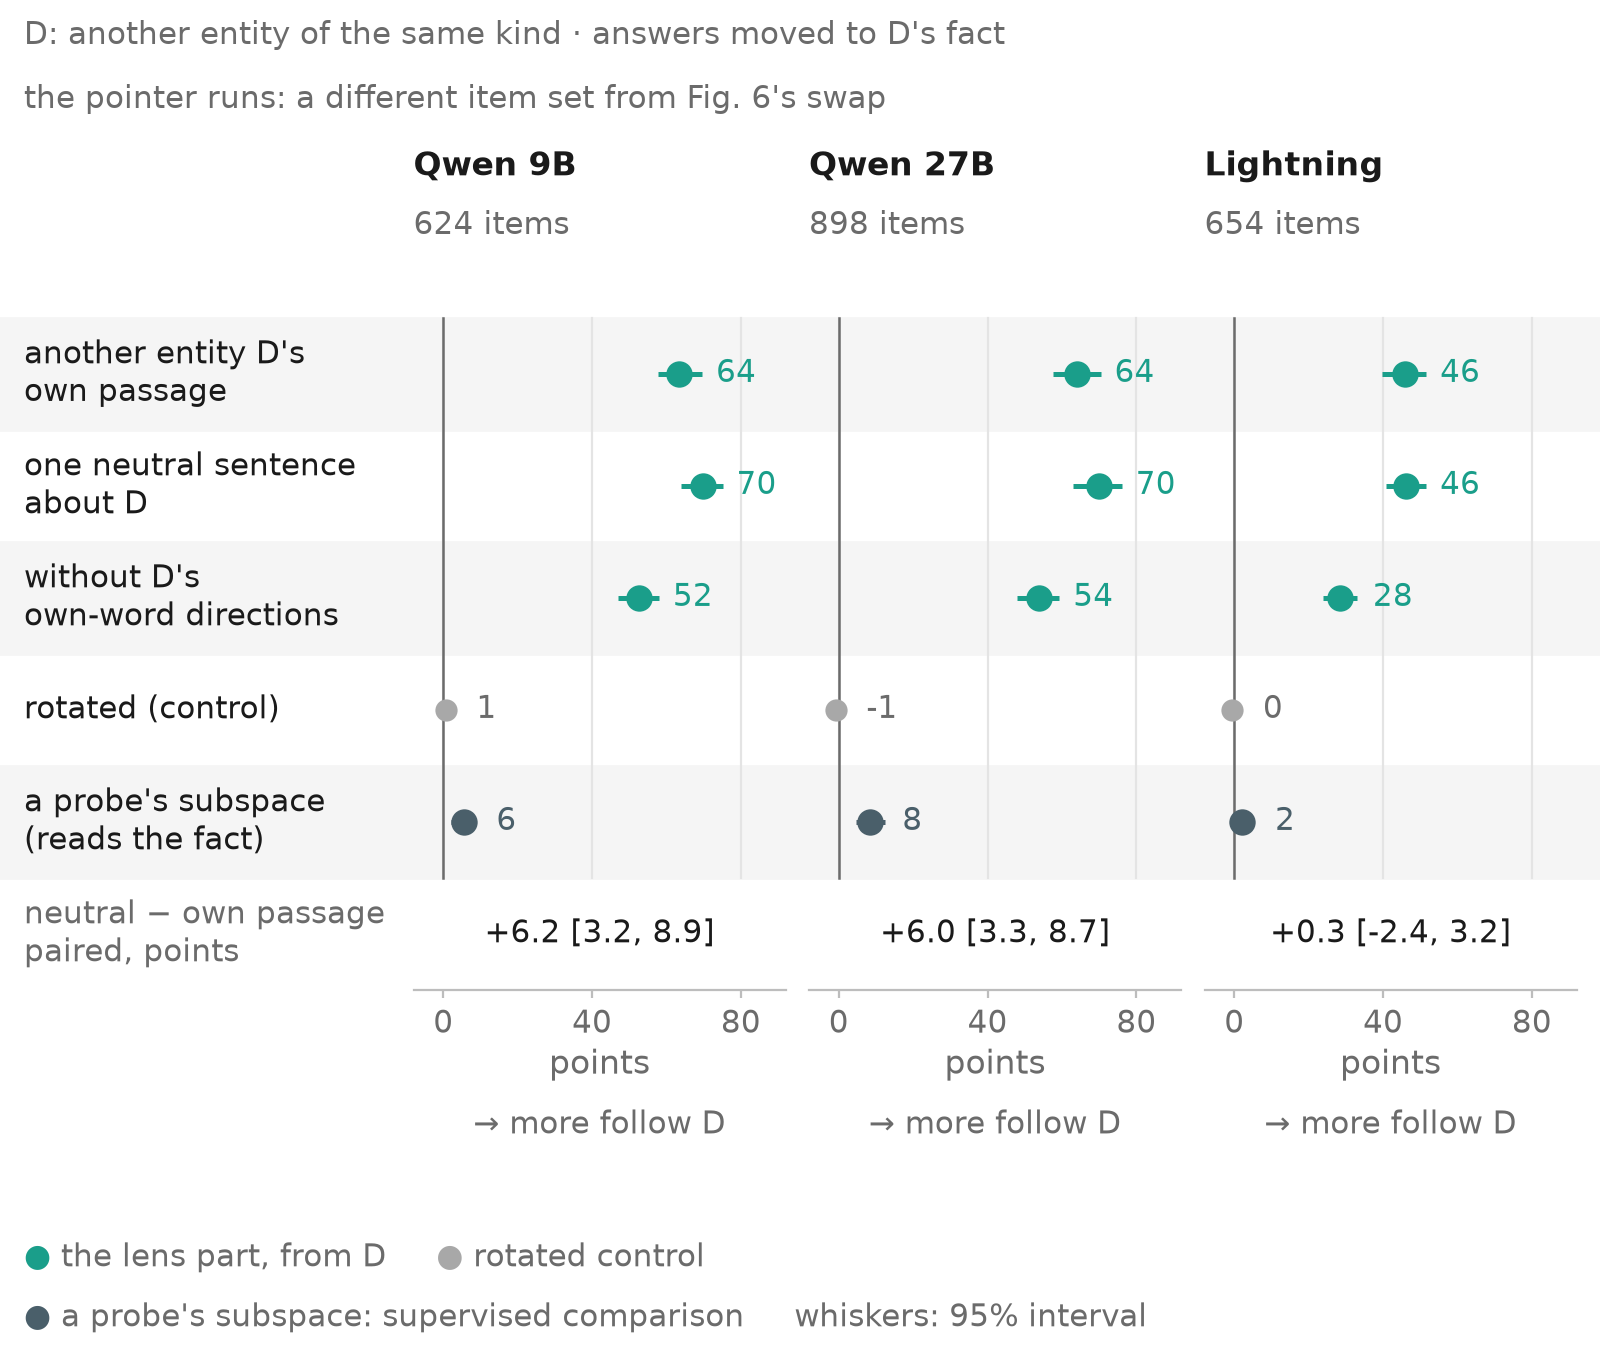
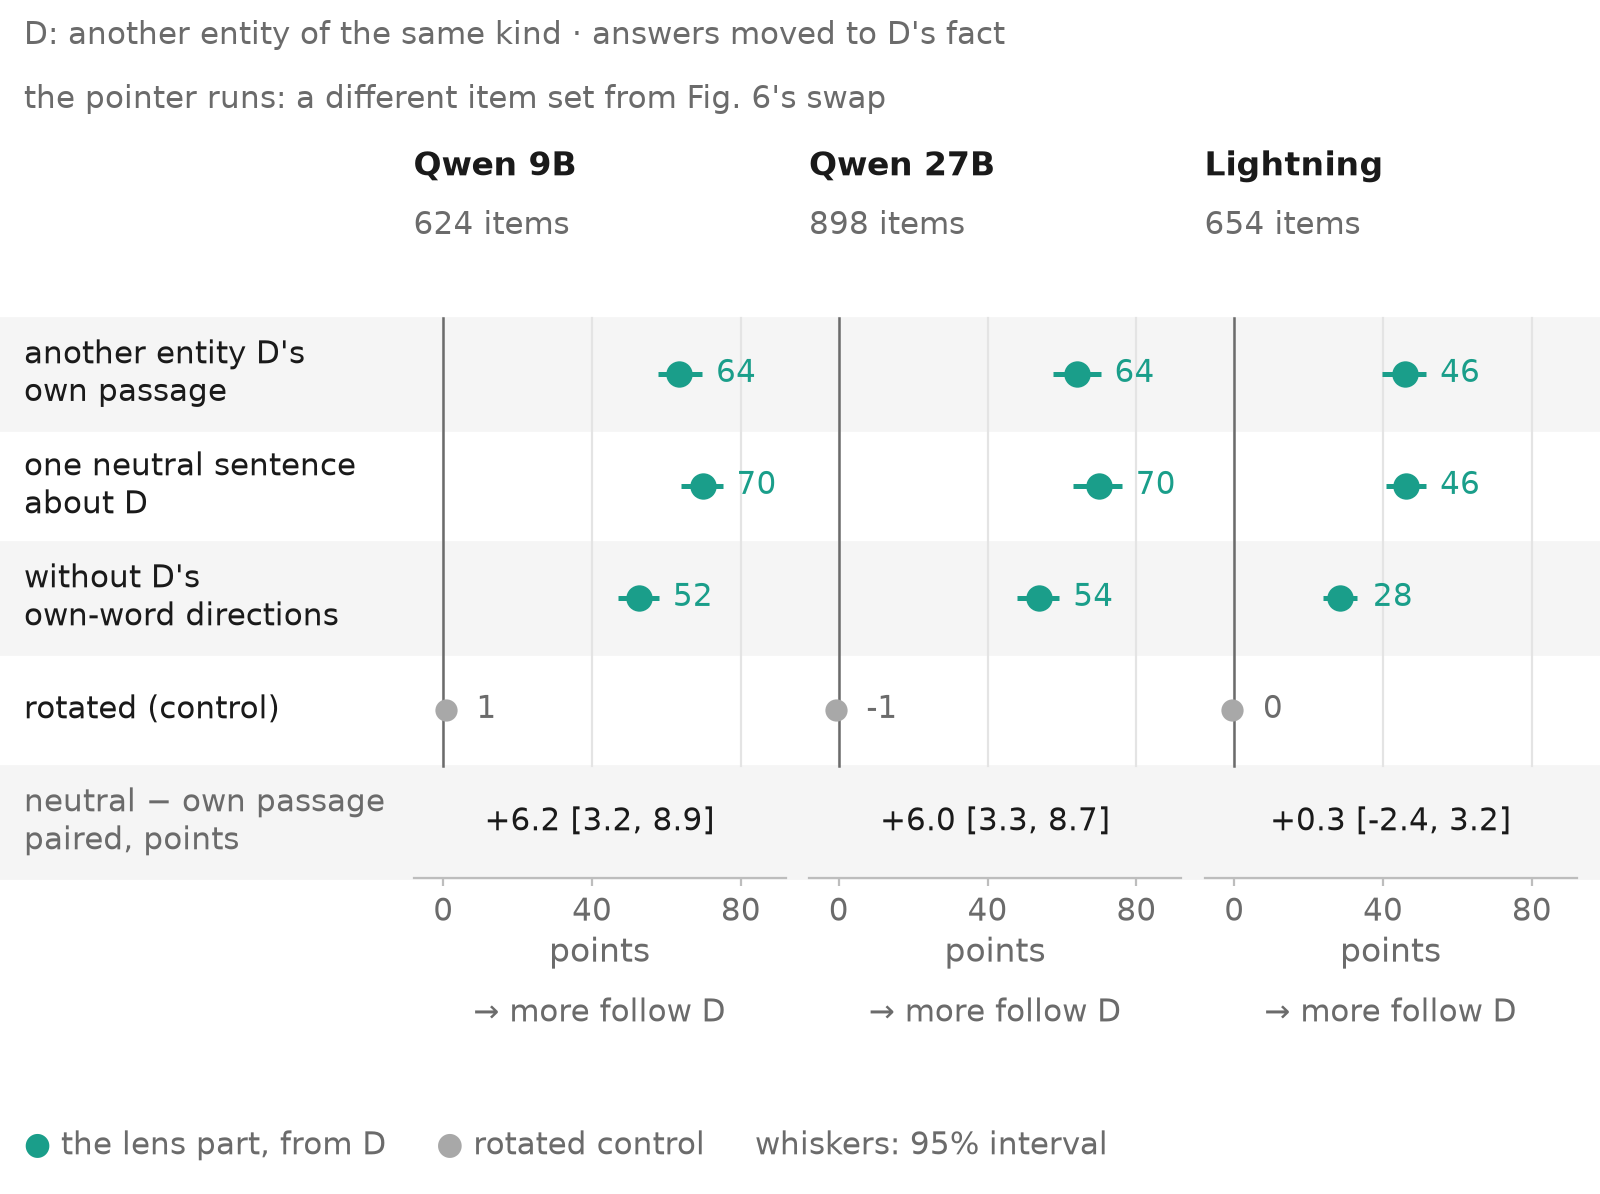
Write-up fig12: drop the probe-subspace row (another item set)
The probe's run has its own items (456 / 891 / 420), so beside the pointer
runs it invites a comparison across item sets. The post keeps that
comparison as text from one run: data.csv fig12.same_run.{lens,probe}.<m>
(probe-ceiling runs, memory_valid/swap vs swap_probe).

diff --git a/src/bridge_jspace/figkit/writeup_intro.py b/src/bridge_jspace/figkit/writeup_intro.py
@@ -167,11 +167,11 @@ def fig07_routes() -> None:
 # ---- Fig. 12: the pointer (r4_pointer) ----------------------------------------------------------------------------
 def fig12_pointer() -> None:
     """As r4: conditions as rows, models as columns, every cell in points with its 95% interval (docs/breadth/data.csv
-    ptr.*, probe.*). The paired difference "neutral sentence minus own passage" is a row of its own, in text, where no
-    line runs (r4 printed it inside the panel)."""
+    ptr.*). The paired difference "neutral sentence minus own passage" is a row of its own, in text, where no line runs
+    (r4 printed it inside the panel). r4's probe-subspace row is left out: its run has another item set, so the post
+    compares it with the lens part as text, both from that run (data/figures/writeup/data.csv fig12.same_run.*)."""
     conds = [(("another entity D's", "own passage"), "lens"), (("one neutral sentence", "about D"), "lens"),
-             (("without D's", "own-word directions"), "lens"), (("rotated (control)",), "control"),
-             (("a probe's subspace", "(reads the fact)"), "neutral")]  # fmt: skip
+             (("without D's", "own-word directions"), "lens"), (("rotated (control)",), "control")]  # fmt: skip
     diff_label = ("neutral − own passage", "paired, points")
     labels = [c for c, _ in conds] + [diff_label]
     rows = [Row("") for _ in labels]
@@ -180,8 +180,7 @@ def fig12_pointer() -> None:
     lim = (-8, 92)
 
     def cells(k):
-        return [D.b(f"ptr.{k}.swap"), D.b(f"ptr.{k}.neutral_pts"), D.b(f"ptr.{k}.noown_pts"), D.b(f"ptr.{k}.rot_pts"),
-                D.b(f"probe.{k}.probe_pts")]  # fmt: skip
+        return [D.b(f"ptr.{k}.swap"), D.b(f"ptr.{k}.neutral_pts"), D.b(f"ptr.{k}.noown_pts"), D.b(f"ptr.{k}.rot_pts")]
 
     def panel(k):
         def f(ax, _rows):
@@ -211,9 +210,8 @@ def fig12_pointer() -> None:
     t = W.table(rows, [Col(1.86, n, items(k), panel(k), lim, [0, 40, 80], xlabel="points", cue="→ more follow D")
                        for k, n in models], label_w=1.95, labels=False, row_h=0.56, skip_lines=(n_dots,), head=1.15, title_top=0.75,
                 subtitle="D: another entity of the same kind · answers moved to D's fact",
-                key=[[("●", C["lens"], "the lens part, from D"), ("●", C["control"], "rotated control")],
-                     [("●", C["neutral"], "a probe's subspace: supervised comparison"),
-                      ("", MUTED, "whiskers: 95% interval")]])  # fmt: skip
+                key=[("●", C["lens"], "the lens part, from D"), ("●", C["control"], "rotated control"),
+                     ("", MUTED, "whiskers: 95% interval")])  # fmt: skip
     # the pointer runs are not the swap run Fig. 6 pools: another item set, so their swap differs from Fig. 6's
     def runs_note(fig):  # a second grey line under the subtitle
         fig.text(0.12 / fig.get_figwidth(), 1 - 0.42 / fig.get_figheight(),

diff --git a/scripts/writeup_data.py b/scripts/writeup_data.py
@@ -231,7 +231,29 @@ def figA1_rows() -> list[dict]:
     return out
 
 
-BUILDERS = (fig04_rows, fig05_rows, fig10_rows, fig11_rows, figA1_rows)
+PROBE_RUN = {"qwen3.5-9b": "qwen35_9b_probe_ceiling_L12-16_v1", "qwen3.6-27b": "probe_ceiling_L32-40_v1",
+             "nemotron-3.5-lightning": "nem35l_probe_ceiling_L27-33_v1"}  # fmt: skip
+
+
+def fig12_rows() -> list[dict]:
+    """Not drawn (Fig. 12 shows the pointer runs only): the post's text compares the lens part's swap with a probe's
+    subspace on the same run and items (the probe-valid relations of the probe-ceiling run), transfer in points."""
+    out = []
+    for model, run in PROBE_RUN.items():
+        k = SHORT[model]
+        src = f"results/probe_ceiling/{run}/summary.json"
+        s = json.loads((REPO / src).read_text())
+        for key, cond, what in (("lens", "swap", "the lens part (J++) swapped in"),
+                                ("probe", "swap_probe", "a probe's subspace swapped in")):  # fmt: skip
+            v = s[f"memory_valid/{cond}"]
+            out.append(_row(f"fig12.same_run.{key}.{k}", "fig12_pointer (text)", model,
+                            f"{what}, transfer on the probe-valid relations (one run, one item set)", v["transfer"],
+                            *(v.get("ci") or (None, None)), n=v.get("n"), unit="points",
+                            source=f'{src} ["memory_valid/{cond}"].transfer'))  # fmt: skip
+    return out
+
+
+BUILDERS = (fig04_rows, fig05_rows, fig10_rows, fig11_rows, figA1_rows, fig12_rows)
 
 
 def rows() -> list[dict]:

diff --git a/tests/test_writeup_figures.py b/tests/test_writeup_figures.py
@@ -20,7 +20,7 @@ DATA = REPO / "data" / "figures" / "writeup" / "data.csv"
 PATH = re.compile(r"\b(?:results|data|docs|scripts)/[\w.\-/\[\]]+")
 # the precision each figure prints (one precision per column; Amendment 1): key prefix -> decimals
 PRINTED = {"fig04.recall": 0, "fig04.lookup": 0, "fig04.gap": 1, "fig05.band_diff": 1, "fig10.span_only_matched": 2,
-           "fig10": 2, "fig11": 1, "figA1": 1}  # fmt: skip
+           "fig10": 2, "fig11": 1, "figA1": 1, "fig12": 1}  # fmt: skip
 
 
 def _stored() -> list[dict]:
